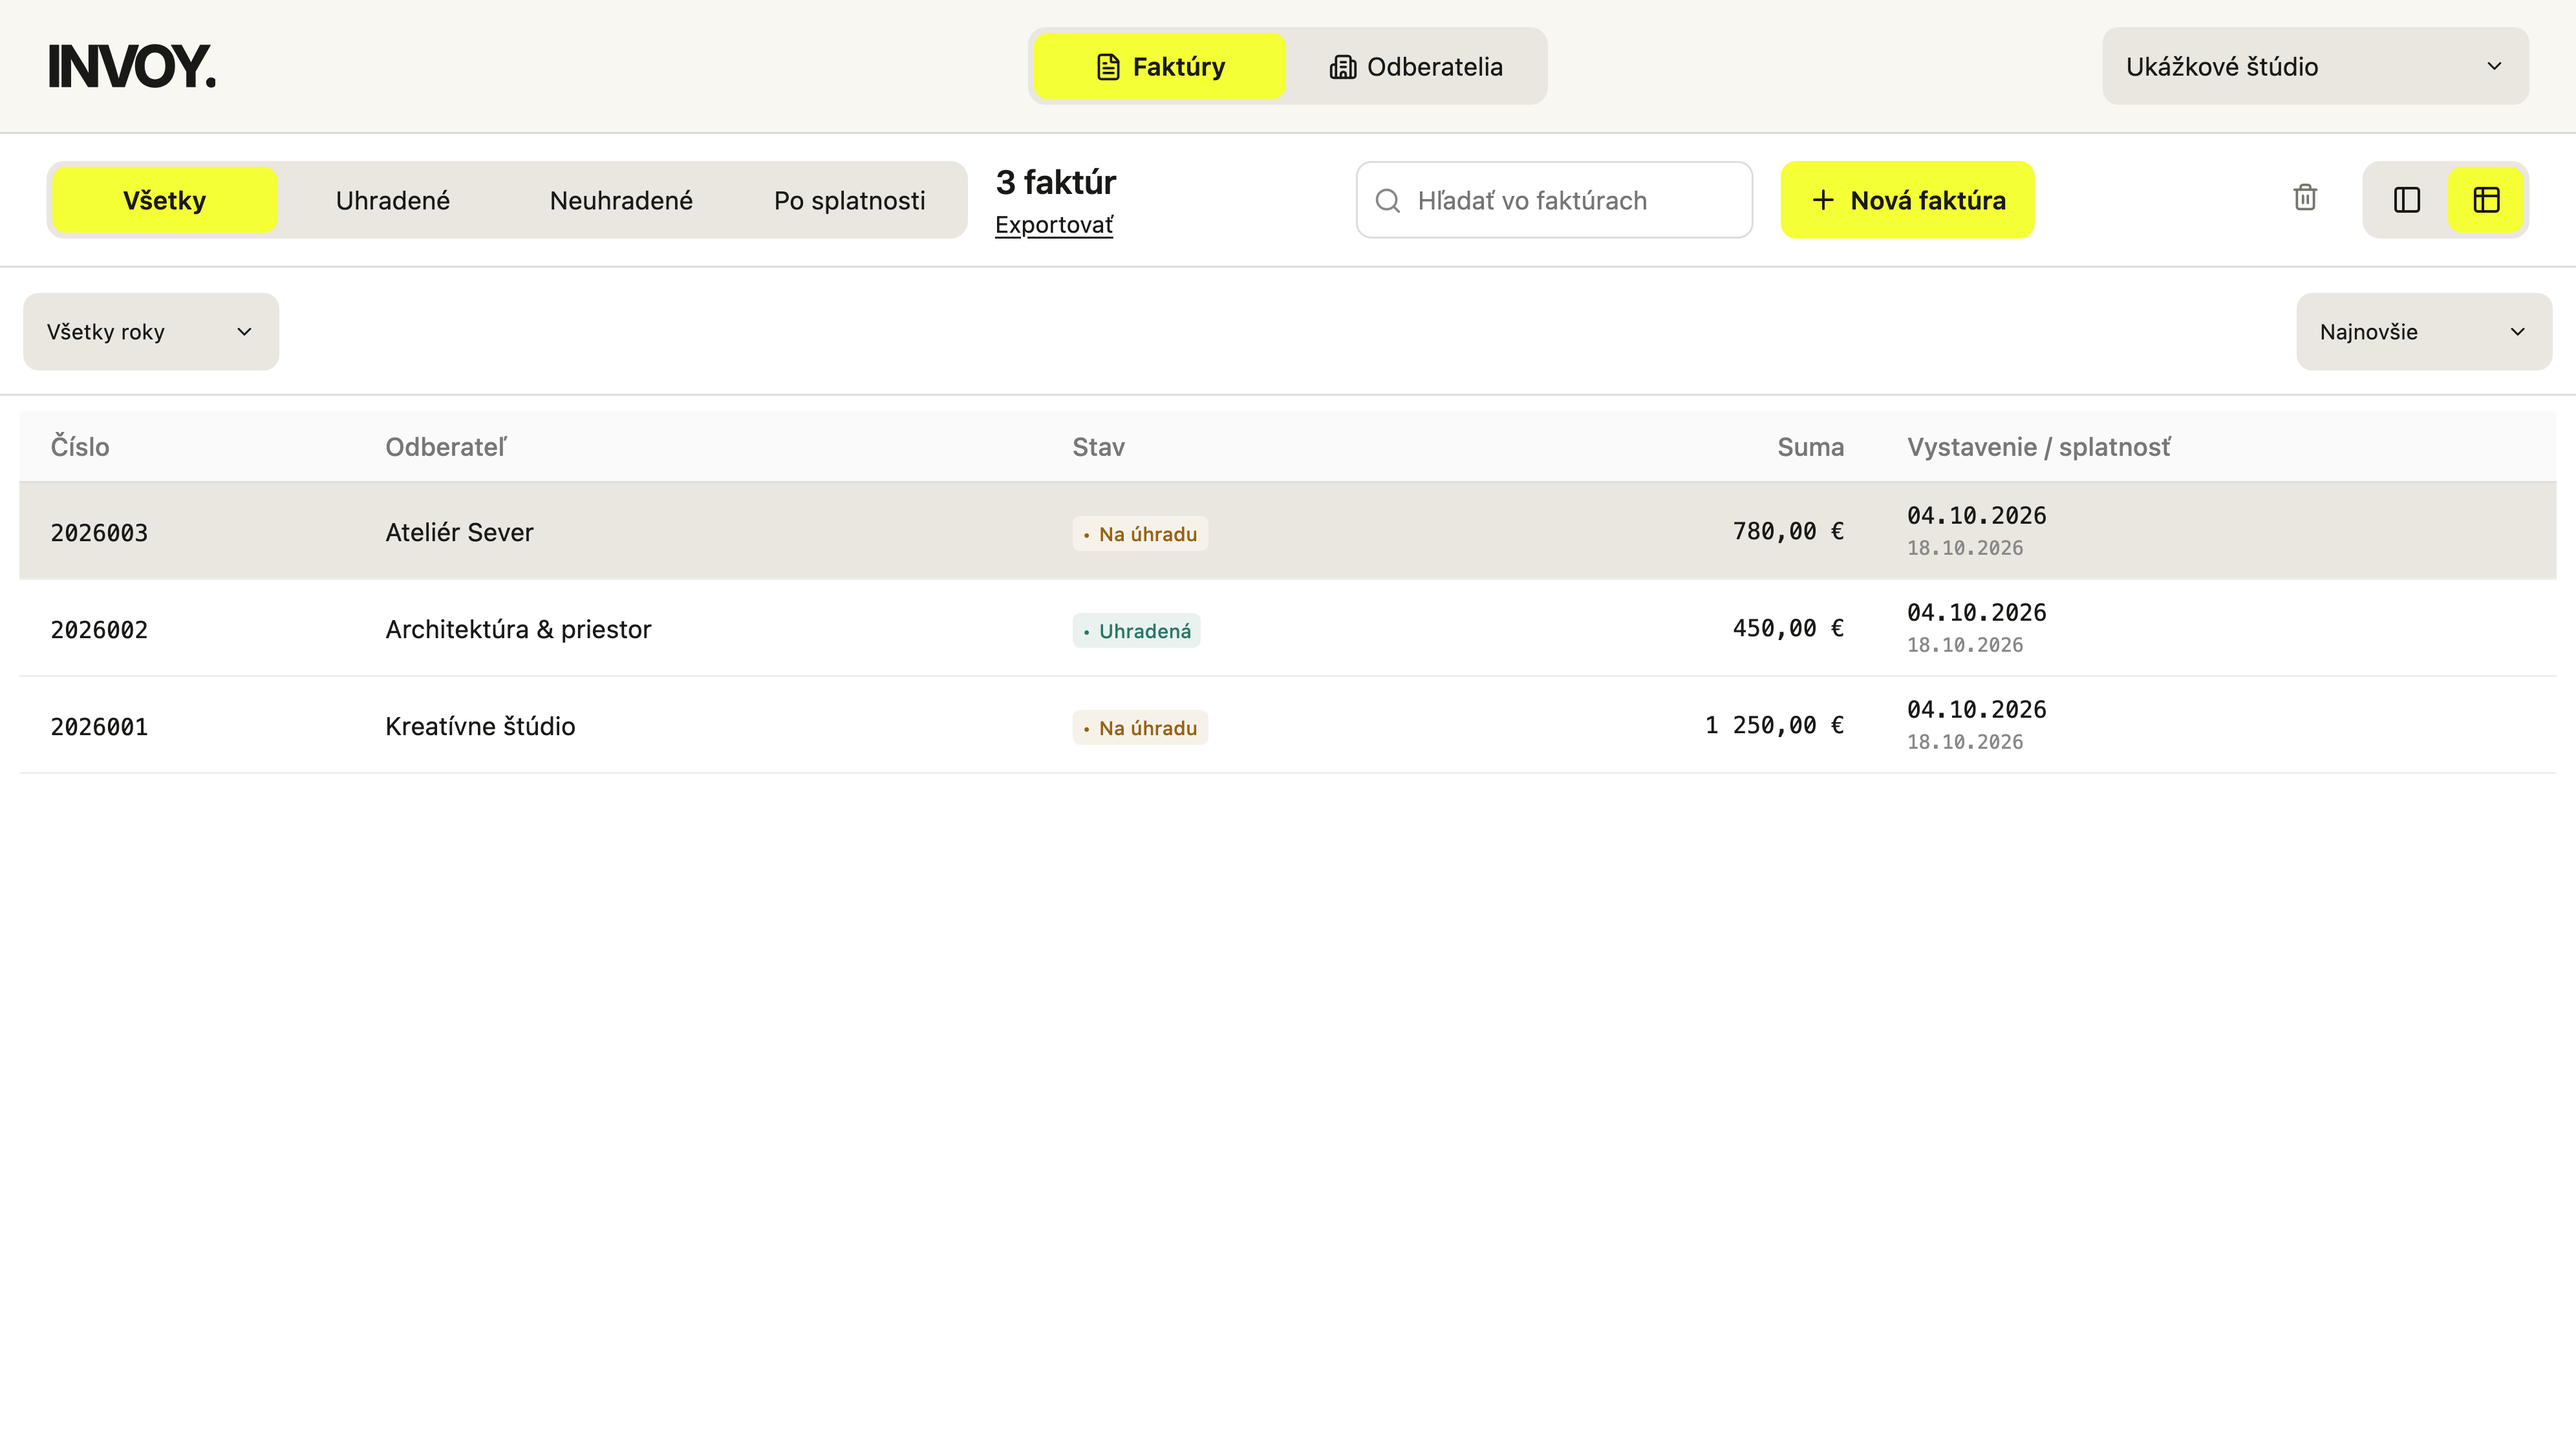
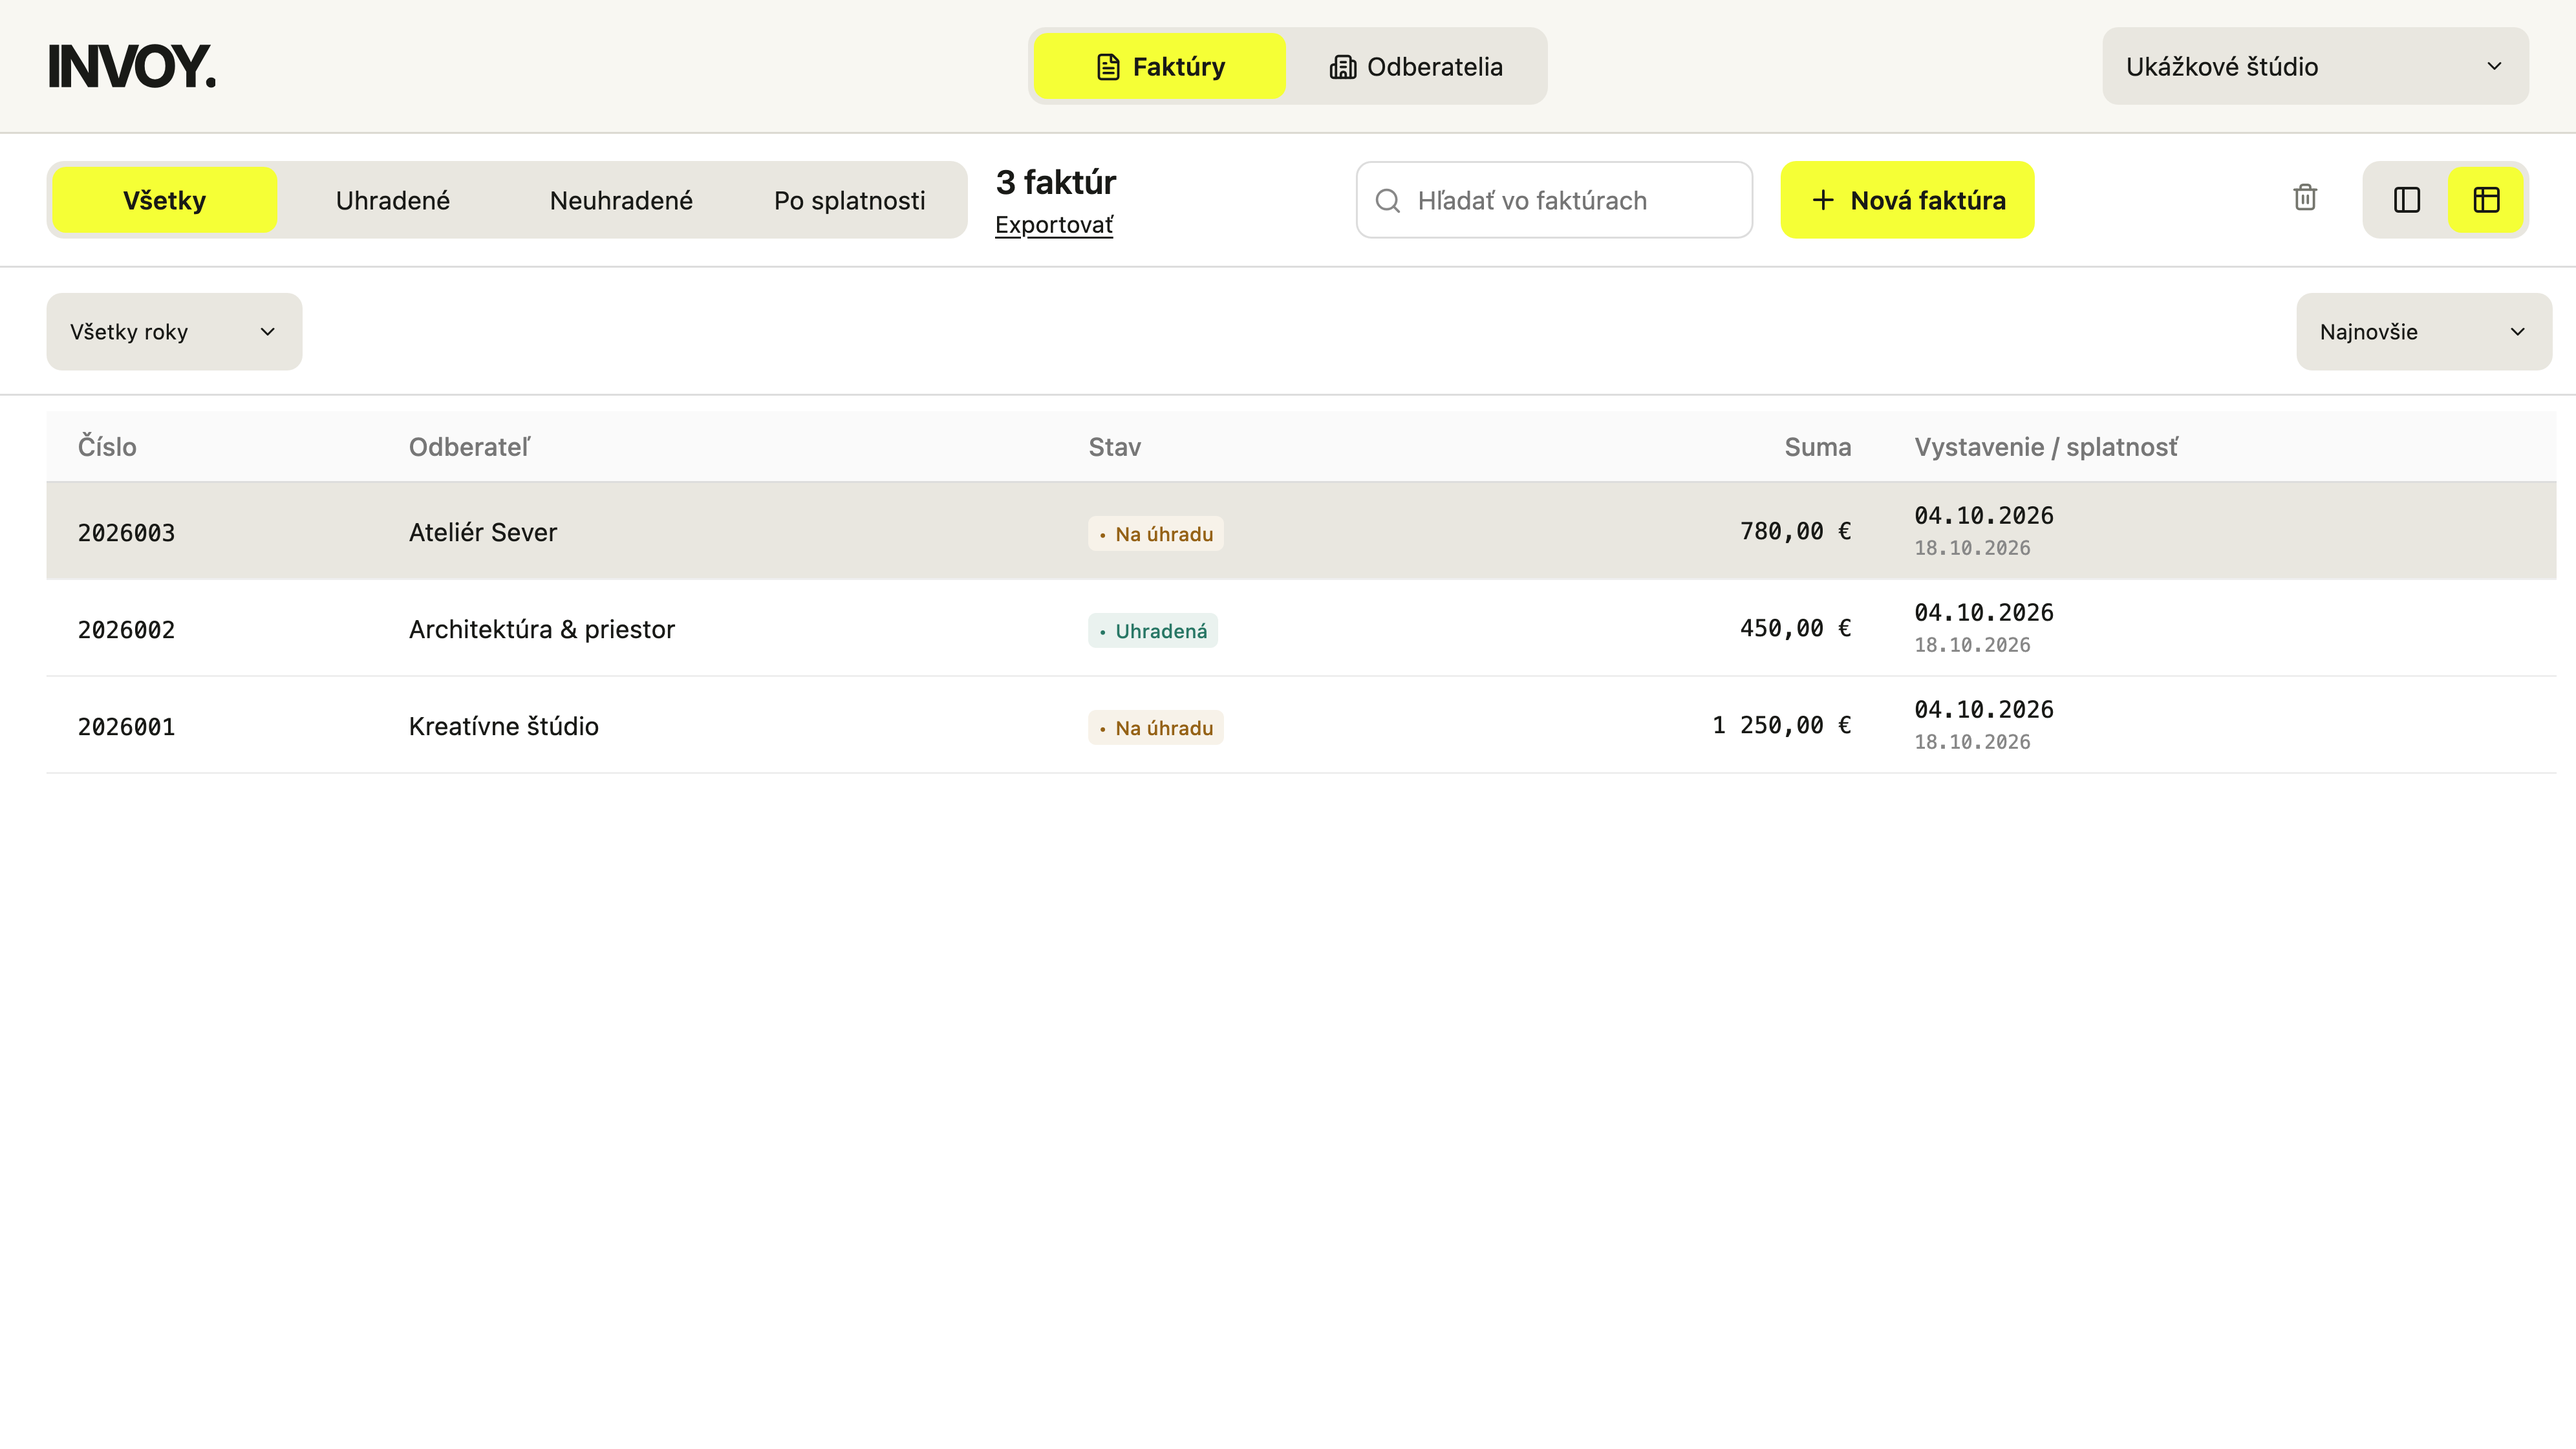
Zarovnať ľavé okraje filtrov a zoznamu faktúr

diff --git a/Sources/INVOY/App.swift b/Sources/INVOY/App.swift
@@ -308,7 +308,7 @@ struct InvoicesView: View {
             HStack {
                 yearPicker
                 Spacer(minLength: 8); sortPicker
-            }.padding(12)
+            }.padding(.leading, InvoyBrand.workspaceInset).padding(.trailing, 12).padding(.vertical, 12)
             Divider()
             List(selection: listSelection) {
                 ForEach(filtered) { invoice in
@@ -328,6 +328,7 @@ struct InvoicesView: View {
                         }
                 }
             }.listStyle(.inset).scrollContentBackground(.hidden)
+                .padding(.leading, InvoyBrand.workspaceInset - 10)
                 .environment(\.defaultMinListRowHeight, InvoiceRow.height)
                 .overlay { if filtered.isEmpty { ContentUnavailableView("Bez výsledkov", systemImage: "doc.text.magnifyingglass") } }
         }
@@ -337,13 +338,13 @@ struct InvoicesView: View {
         let years = [0] + Array(Set(store.invoices.map { Calendar.current.component(.year, from: $0.issueDate) })).sorted(by: >)
         return BrandDropdown(title: "Rok", value: year == 0 ? "Všetky roky" : String(year), items: years.map { option in
             BrandDropdownItem(title: option == 0 ? "Všetky roky" : String(option), selected: year == option) { year = option }
-        }).frame(width: 132)
+        }).frame(maxWidth: 132)
     }
 
     private var sortPicker: some View {
         BrandDropdown(title: "Zoradenie", value: sortOrder, items: ["Najnovšie", "Splatnosť", "Odberateľ"].map { option in
             BrandDropdownItem(title: option, selected: sortOrder == option) { sortOrder = option }
-        }).frame(width: 132)
+        }).frame(maxWidth: 132)
     }
 
     private var invoiceTable: some View {

diff --git a/web/src/app-brand.css b/web/src/app-brand.css
@@ -693,3 +693,15 @@
     --workspace-gutter: 14px;
   }
 }
+
+/* Align the left backgrounds with the wordmark and invoice status filters. */
+.native-header,
+.native-invoice-toolbar,
+.native-list-heading,
+.native-list-scroll {
+  padding-inline-start: var(--workspace-gutter);
+}
+.native-list-heading :is(select, .brand-select) {
+  flex-shrink: 1;
+  min-width: 0;
+}
